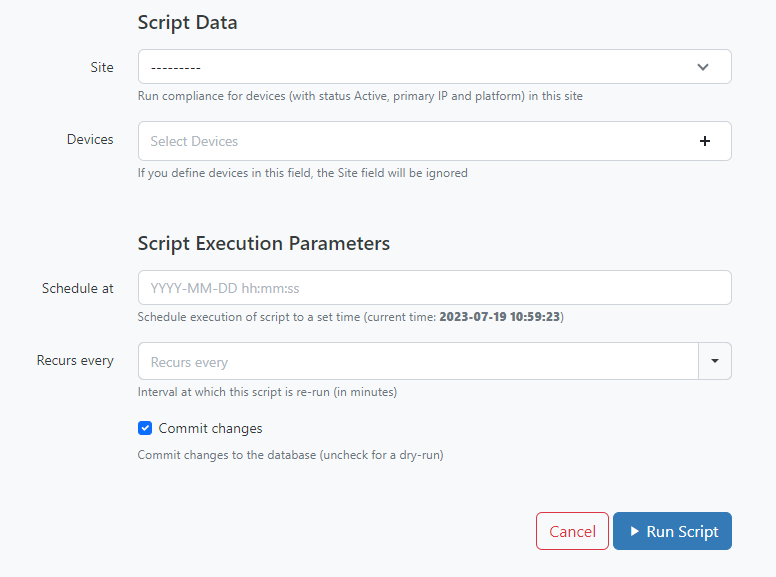
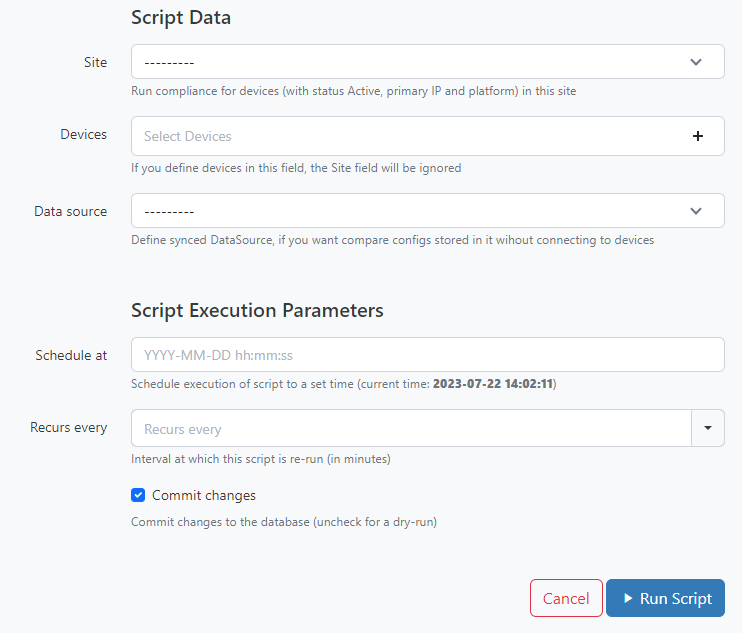
Add datasource to script

diff --git a/netbox_config_diff/compliance/base.py b/netbox_config_diff/compliance/base.py
@@ -2,15 +2,98 @@ import asyncio
 import traceback
 from typing import Iterable, Iterator
 
+from core.choices import DataSourceStatusChoices
+from core.models import DataFile, DataSource
+from dcim.choices import DeviceStatusChoices
+from dcim.models import Device, Site
+from django.core.exceptions import ObjectDoesNotExist
+from django.db.models import Q
 from extras.plugins import get_plugin_config
 from extras.querysets import ConfigContextQuerySet
+from extras.scripts import MultiObjectVar, ObjectVar
 from jinja2.exceptions import TemplateError
+from utilities.exceptions import AbortScript
+
+from netbox_config_diff.models import ConfigCompliance
 
 from .models import DeviceDataClass
 from .utils import exclude_lines, get_unified_diff
 
 
 class ConfigDiffBase:
+    site = ObjectVar(
+        model=Site,
+        required=False,
+        description="Run compliance for devices (with status Active, primary IP and platform) in this site",
+    )
+    devices = MultiObjectVar(
+        model=Device,
+        required=False,
+        query_params={
+            "status": DeviceStatusChoices.STATUS_ACTIVE,
+            "has_primary_ip": True,
+            "platform_id__n": "null",
+        },
+        description="If you define devices in this field, the Site field will be ignored",
+    )
+    data_source = ObjectVar(
+        model=DataSource,
+        required=False,
+        query_params={
+            "status": DataSourceStatusChoices.COMPLETED,
+        },
+        description="Define synced DataSource, if you want compare configs stored in it wihout connecting to devices",
+    )
+
+    def validate_data(self, data: dict) -> Iterable[ConfigContextQuerySet]:
+        if not data["site"] and not data["devices"]:
+            raise AbortScript("Define site or devices")
+        if data.get("data_source") and data["data_source"].status != DataSourceStatusChoices.COMPLETED:
+            raise AbortScript("Define synced DataSource")
+
+        self.data = data
+        if data["devices"]:
+            devices = data["devices"].exclude(platform__platform_setting__isnull=True)
+        else:
+            devices = Device.objects.filter(
+                site=data["site"],
+                status=DeviceStatusChoices.STATUS_ACTIVE,
+                platform__platform_setting__isnull=False,
+            ).exclude(
+                Q(primary_ip4__isnull=True) & Q(primary_ip6__isnull=True),
+            )
+        if data.get("devices"):
+            if qs_diff := data["devices"].difference(devices):
+                platforms = {d.platform.name for d in qs_diff}
+                self.log_warning(f"Define PlatformSetting for platform(s) {', '.join(platforms)}")
+
+        if not devices:
+            self.log_warning(
+                "No matching devices found, devices must have status `Active`, primary IP, platform and platformsetting"
+            )
+        else:
+            self.log_info(f"Working with device(s): {', '.join(d.name for d in devices)}")
+        return devices
+
+    def update_in_db(self, devices: list[DeviceDataClass]) -> None:
+        for device in devices:
+            self.log_results(device)
+            try:
+                obj = ConfigCompliance.objects.get(device_id=device.pk)
+                obj.snapshot()
+                obj.update(**device.to_db())
+                obj.save()
+            except ObjectDoesNotExist:
+                ConfigCompliance.objects.create(**device.to_db())
+
+    def log_results(self, device: DeviceDataClass) -> None:
+        if device.error:
+            self.log_failure(f"{device.name} errored")
+        elif device.diff:
+            self.log_warning(f"{device.name} has diff between intented and actual configurations")
+        else:
+            self.log_success(f"{device.name} no diff")
+
     def get_devices_with_rendered_configs(self, devices: Iterable[ConfigContextQuerySet]) -> Iterator[DeviceDataClass]:
         username = get_plugin_config("netbox_config_diff", "USERNAME")
         password = get_plugin_config("netbox_config_diff", "PASSWORD")
@@ -40,9 +123,22 @@ class ConfigDiffBase:
                 error=error,
             )
 
+    def get_config_from_datasource(self, devices: list[DeviceDataClass]) -> None:
+        for device in devices:
+            if df := DataFile.objects.filter(source=self.data["data_source"], path__icontains=device.name).first():
+                if config := df.data_as_string:
+                    device.actual_config = config
+                else:
+                    device.error = f"Data in file {df} is broken, skiping device {device.name}"
+            else:
+                device.error = f"Not found file in DataSource for device {device.name}"
+
     def get_actual_configs(self, devices: list[DeviceDataClass]) -> None:
-        loop = asyncio.get_event_loop()
-        loop.run_until_complete(asyncio.gather(*(d.get_actual_config() for d in devices)))
+        if self.data["data_source"]:
+            self.get_config_from_datasource(devices)
+        else:
+            loop = asyncio.get_event_loop()
+            loop.run_until_complete(asyncio.gather(*(d.get_actual_config() for d in devices)))
 
     def get_diff(self, devices: list[DeviceDataClass]) -> None:
         for device in devices:

diff --git a/netbox_config_diff/scripts/config_diff.py b/netbox_config_diff/scripts/config_diff.py
@@ -1,84 +1,12 @@
-from typing import Iterable
-
-from dcim.choices import DeviceStatusChoices
-from dcim.models import Device, Site
-from django.core.exceptions import ObjectDoesNotExist
-from django.db.models import Q
-from extras.querysets import ConfigContextQuerySet
-from extras.scripts import MultiObjectVar, ObjectVar, Script
-from utilities.exceptions import AbortScript
+from extras.scripts import Script
 
 from netbox_config_diff.compliance.base import ConfigDiffBase
-from netbox_config_diff.compliance.models import DeviceDataClass
-from netbox_config_diff.models import ConfigCompliance
 
 
 class ConfigDiffScript(ConfigDiffBase, Script):
     class Meta:
         description = "Checks for configuration difference."
         job_timeout = 600
-
-    site = ObjectVar(
-        model=Site,
-        required=False,
-        description="Run compliance for devices (with status Active, primary IP and platform) in this site",
-    )
-    devices = MultiObjectVar(
-        model=Device,
-        required=False,
-        query_params={
-            "status": DeviceStatusChoices.STATUS_ACTIVE,
-            "has_primary_ip": True,
-            "platform_id__n": "null",
-        },
-        description="If you define devices in this field, the Site field will be ignored",
-    )
-
-    def validate_data(self, data: dict) -> Iterable[ConfigContextQuerySet]:
-        if not data["site"] and not data["devices"]:
-            raise AbortScript("Define site or devices")
-
-        if data["devices"]:
-            devices = data["devices"].exclude(platform__platform_setting__isnull=True)
-        else:
-            devices = Device.objects.filter(
-                site=data["site"],
-                status=DeviceStatusChoices.STATUS_ACTIVE,
-                platform__platform_setting__isnull=False,
-            ).exclude(
-                Q(primary_ip4__isnull=True) & Q(primary_ip6__isnull=True),
-            )
-        if data.get("devices"):
-            if qs_diff := data["devices"].difference(devices):
-                platforms = {d.platform.name for d in qs_diff}
-                self.log_warning(f"Define PlatformSetting for platform(s) {', '.join(platforms)}")
-
-        if not devices:
-            self.log_warning(
-                "No matching devices found, devices must have status `Active`, primary IP, platform and platformsetting"
-            )
-        else:
-            self.log_info(f"Working with device(s): {', '.join(d.name for d in devices)}")
-        return devices
-
-    def update_in_db(self, devices: list[DeviceDataClass]) -> None:
-        for device in devices:
-            self.log_results(device)
-            try:
-                obj = ConfigCompliance.objects.get(device_id=device.pk)
-                obj.snapshot()
-                obj.update(**device.to_db())
-                obj.save()
-            except ObjectDoesNotExist:
-                ConfigCompliance.objects.create(**device.to_db())
-
-    def log_results(self, device: DeviceDataClass) -> None:
-        if device.error:
-            self.log_failure(f"{device.name} errored")
-        elif device.diff:
-            self.log_warning(f"{device.name} has diff between intented and actual configurations")
-        else:
-            self.log_success(f"{device.name} no diff")
 
     def run(self, data: dict, commit: bool) -> None:
         devices = self.validate_data(data)

diff --git a/README.md b/README.md
@@ -62,6 +62,12 @@ Collect static from the plugin:
 python manage.py collectstatic --noinput
 ```
 
+Restart NetBox service:
+
+```bash
+systemctl restart netbox
+```
+
 ## Usage
 
 Under `Plugins` navbar menu you can find plugin
@@ -88,6 +94,12 @@ In the script, you can define a site, on which devices run compliance, or device
 > **Warning**
 >
 > Script run only on devices with status `Active`, assigned Primary IP, Platform and PlatformSetting
+
+If you have configs in NetBox DataSource, you can define it, the script will not connect to the devices and finds config in DataSource by device name
+
+> **Note**
+>
+> Only synced DataSources are acceptable
 
 ![Screenshot of the script](docs/media/screenshots/script.png)
 
